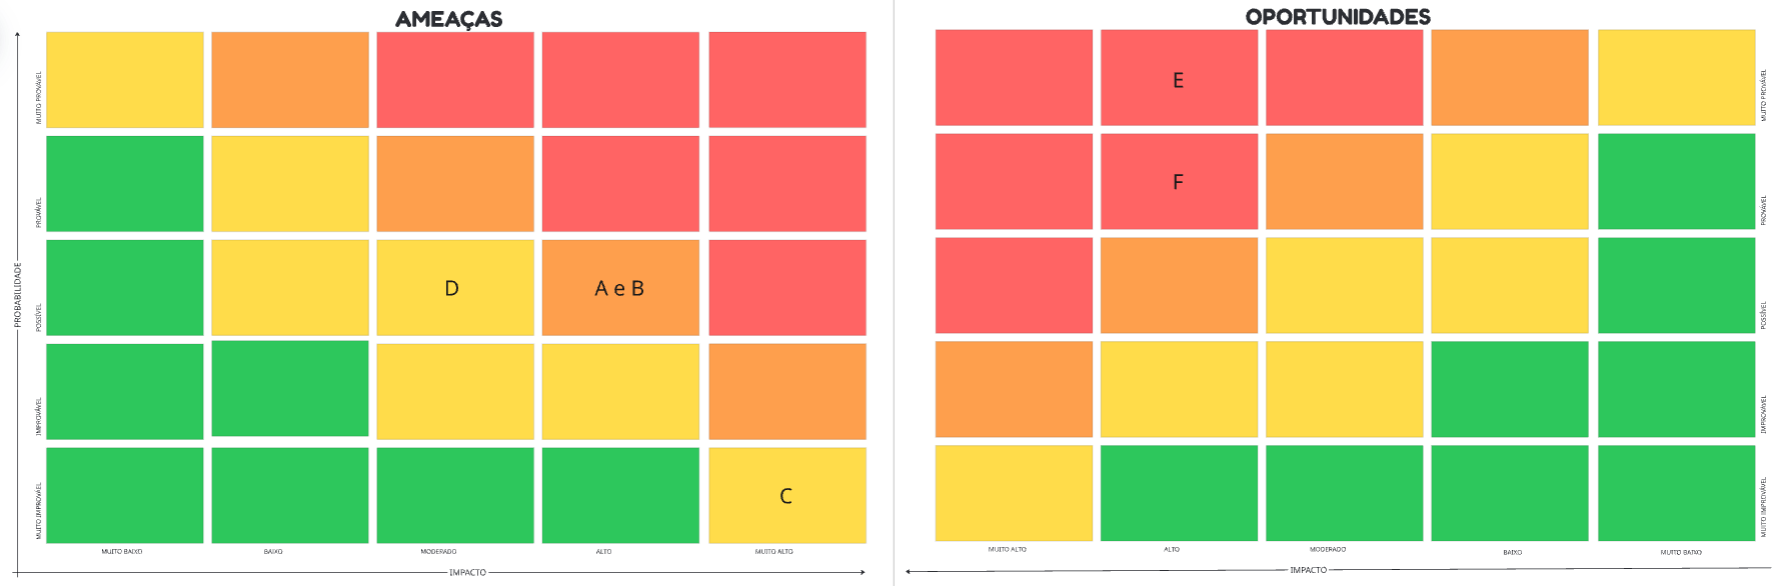
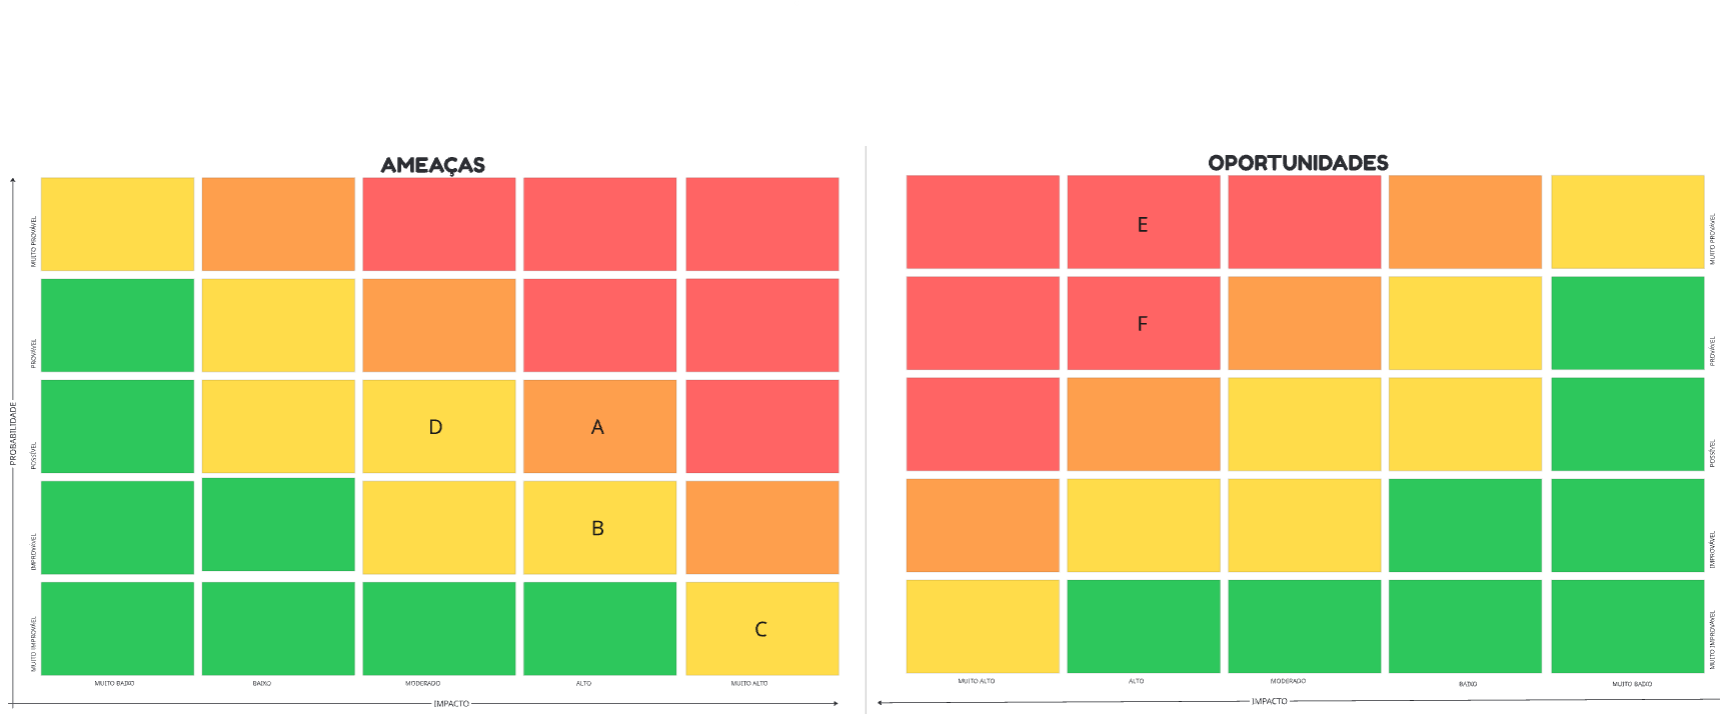
docs (#64) corrigir matriz de risco

diff --git a/documentos/wad.md b/documentos/wad.md
@@ -116,10 +116,6 @@ O sucesso será avaliado pela entrega do MVP funcional com os três módulos pri
 
 ### 2.1.5. Matriz de Riscos do Projeto (sprint 1)
 
-*Sem limite de palavras – usar template do curso*
-
-*Registre na matriz os riscos identificados no projeto.*
-
 A matriz de riscos é uma ferramenta fundamental de gestão de projetos, utilizada para identificar, classificar e planejar respostas a eventos que possam impactar negativamente (ameaças) ou positivamente (oportunidades) o desenvolvimento da aplicação Web. Ela permite visualizar, de forma estruturada, os principais riscos do projeto, avaliando sua probabilidade de ocorrência e o impacto potencial sobre os resultados. A análise e o acompanhamento contínuo desses riscos são essenciais para garantir a entrega do MVP no prazo, com qualidade e alinhamento aos objetivos do grupo.
 
 #### 2.1.5.1 Classificação de Impacto, Probabilidade e Matriz de Risco
@@ -146,6 +142,7 @@ A matriz de riscos é uma ferramenta fundamental de gestão de projetos, utiliza
 
 A. **Informações não atualizadas**
    Há o risco das informações sobre os clientes e os produtos não serem atualizadas à todo o momento. Caso isso ocorra, o projeto falhara em realizar um de seus principais objetivos.
+
    **Responsáveis:** Antônio, Gabriel, Haila, João, Mariana, Tiago, William
 
    **Impacto:** Alto
@@ -155,17 +152,21 @@ A. **Informações não atualizadas**
    **Plano de Resposta ao Risco:** Validar o site com testes durante o desenvolvimento para garantir a constante atualização. 
 
    B. **Atraso na entrega do MVP**
+
    Atrasos nas funcionalidades da aplicação WEB podem comprometer na entrega ao parceiro.  
+
    **Responsáveis:** Antônio, Gabriel, Haila, João, Mariana, Tiago, William
 
    **Impacto:** Alto
 
-   **Probabilidade:** Média
+   **Probabilidade:** Baixa
 
    **Plano de Resposta ao Risco:** Priorizar uma divisão equilibrada de tarefas entre todos, com o objetivo de não pesar para ninguém e assim ser possível todos os integrantes do grupo finalizarem suas responsabilidades antes do prazo.
 
    C. **Exposição de dados confidenciais**
+
    As informações dos parceiros e fornecedores da ATVOS não devem ser expostas, visto que é conteúdo estratégico e restrito da empresa. Caso isso ocorra, causaria dano grave ao negócio.
+
    **Responsáveis:** Antônio, Gabriel, Haila, João, Mariana, Tiago, William
 
    **Impacto:** Muito Alto
@@ -175,7 +176,9 @@ A. **Informações não atualizadas**
    **Plano de Resposta ao Risco:** Não públicar o sistema em URL pública sem controle de acesso, além de também tratar os arquivos de dados de forma confidencial durante todo o desenvolvimento da aplicação WEB.
 
    D. **Ux inadequada**
+
    Interfaces pouco intuitivas podem inviabilizar o uso pela equipe da ATVOS, que precisa de consulta rápida ao perfil de parceiros.
+
    **Responsáveis:** Antônio, Gabriel, Haila, João, Mariana, Tiago, William
 
    **Impacto:** Médio
@@ -187,7 +190,9 @@ A. **Informações não atualizadas**
 #### 2.1.5.3 Lista de Riscos(Oportunidades)
 
 E. **Eliminação de planilhas**
+
    A centralização dos dados de parceiros facilita muito para a ATVOS, diminuindo o tempo de trabalho deles, e eliminando a perda de histórico de informações dos parceiros e produtores.
+
    **Responsáveis:** Antônio, Gabriel, Haila, João, Mariana, Tiago, William
 
    **Impacto:** Alto
@@ -197,7 +202,9 @@ E. **Eliminação de planilhas**
    **Plano de Resposta ao Risco:** Demonstrar a qualidade do projeto durante a apresentação do MVP e comparar o tempo economizado entre o uso de planilhas e o uso da aplicação WEB.
 
 F. **Fortalecimento do relacionamento com parceiro**
+
    Com o histórico de interações centralizado e acessível para a ATVOS, ela pode personallizar o relacionamento com fornecedores e pareceiros, fortalecendo a fidelidade a longo prazo
+
    **Responsáveis:** Antônio, Gabriel, Haila, João, Mariana, Tiago, William
 
    **Impacto:** Alto
@@ -205,6 +212,10 @@ F. **Fortalecimento do relacionamento com parceiro**
    **Probabilidade:** Alta
 
    **Plano de Resposta ao Risco:** Priorizar a funcionalidade de registro de informações e consulta do histórico de interações com os parceiros e fornecedores no MVP.
+
+   ---
+
+   A matriz de riscos foi utilizada de forma que permite a equipe antecipar ameaças, planejar respostas e aproveitar oportunidades. O acompanhamento dos riscos pode contribuir para a organização do grupo, a entrega do MVP no prazo e a elevação da qualidade do produto. Além disso, a análise dos riscos, aliada à comunicação eficiente e à definição clara de responsabilidades, é fundamental para o sucesso da aplicação web.
 
    
 
